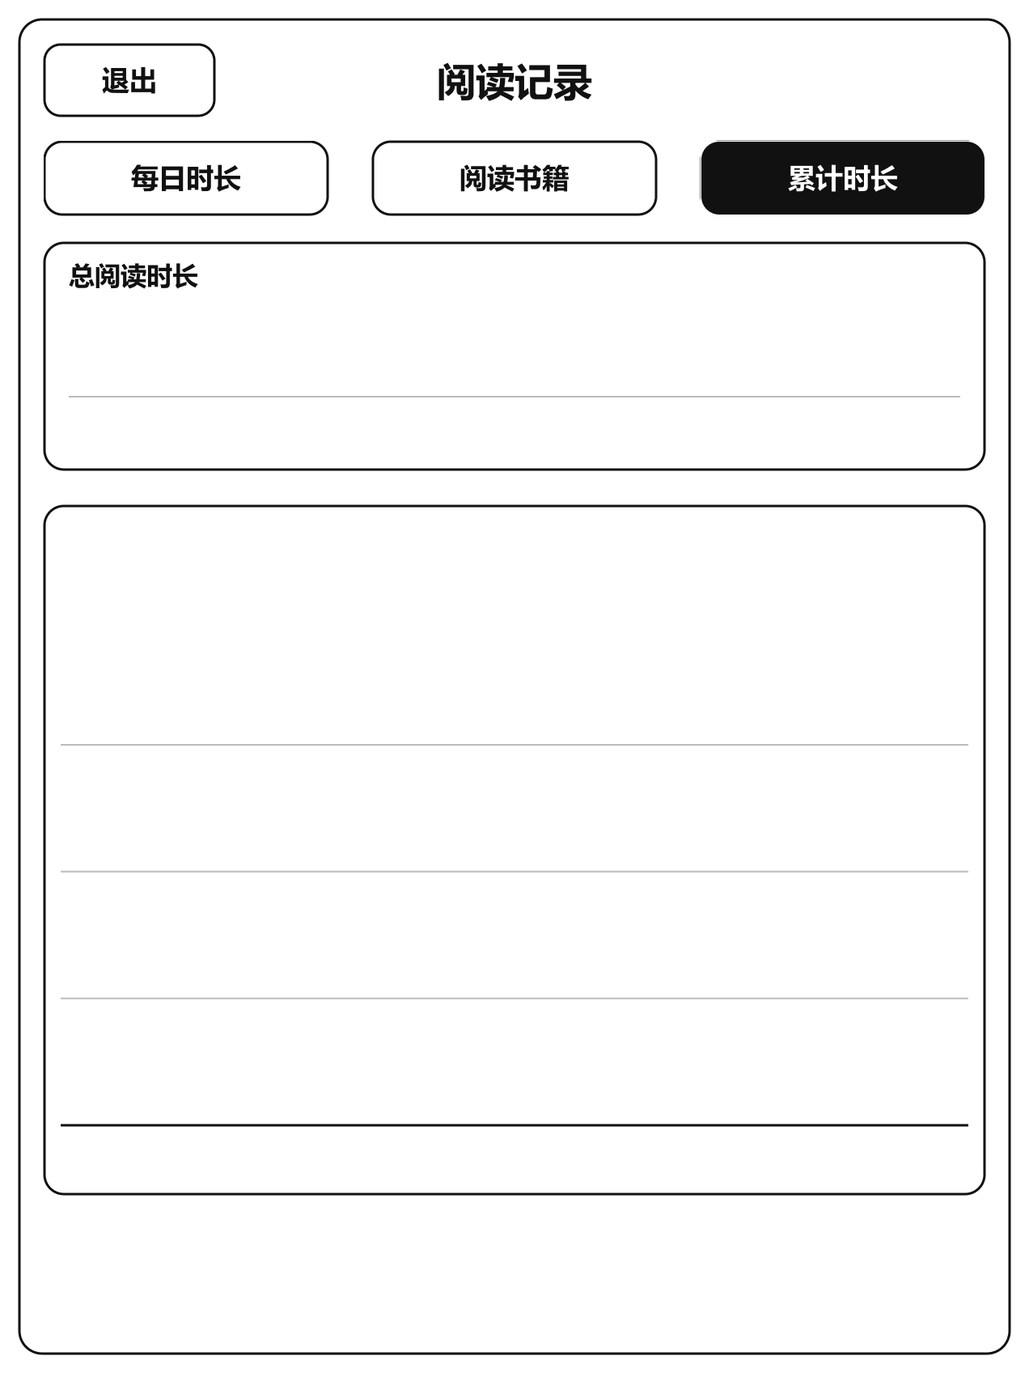
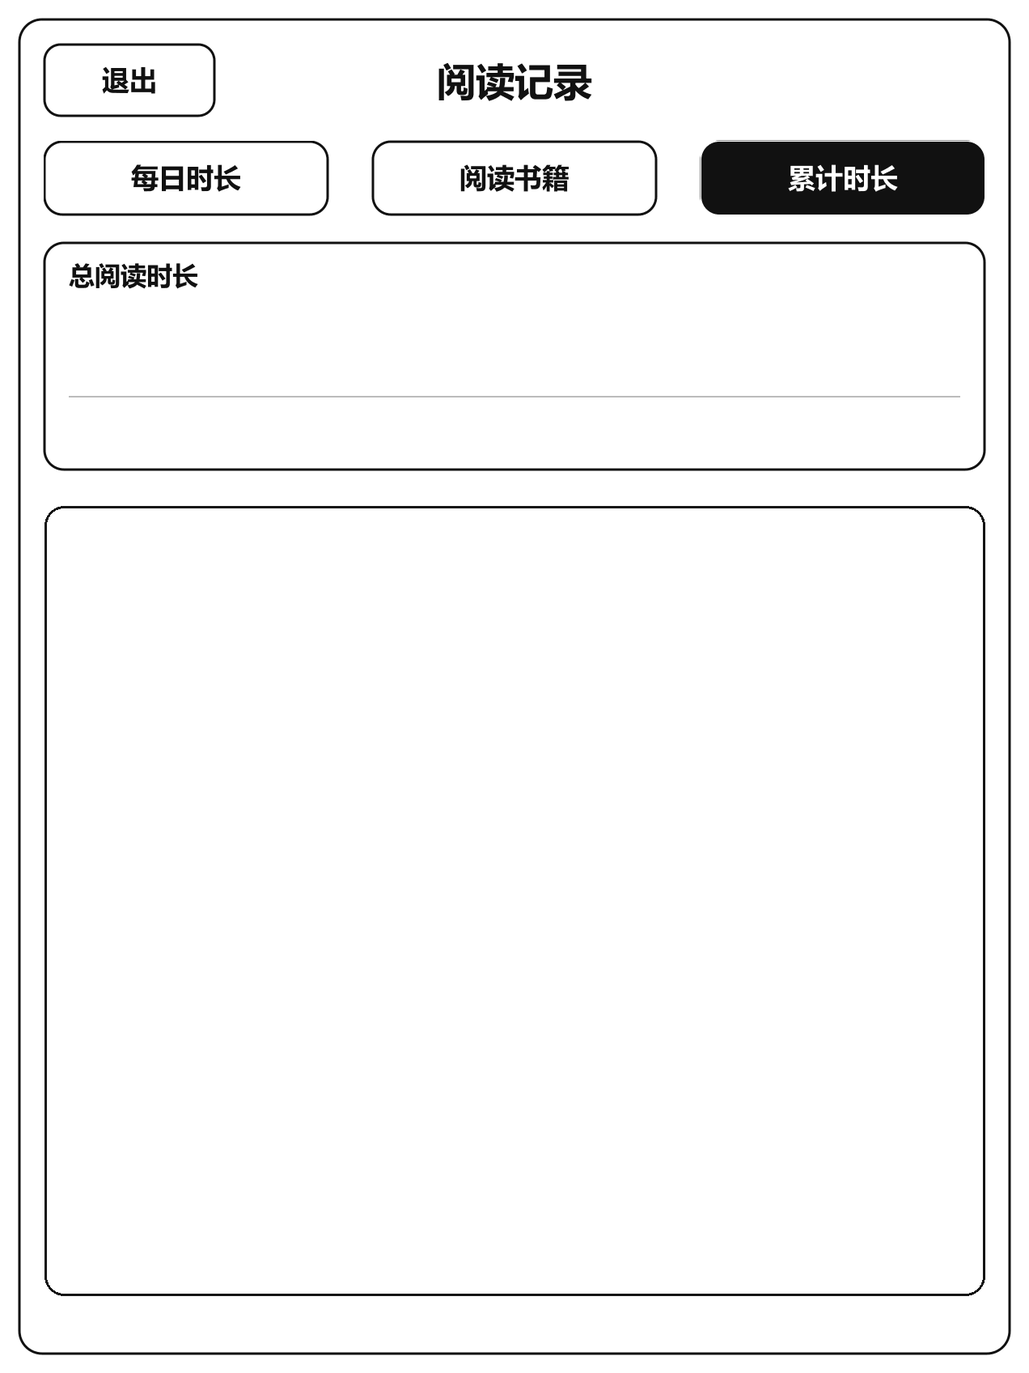
Improve cumulative-time controls and package Vera test4
Separate equal range buttons from centered period navigation, center visible glyph bounds in both axes, and move the chart with matching touch and refresh regions. Preserve verified runtime paths and settings; validate rendered pixels, upgrades, version markers and the Standard regression suite.

Changed region(s): [[0.0307, 0.375, 0.0613, 0.875]]

diff --git a/tests/validate_total_layout.py b/tests/validate_total_layout.py
@@ -1,0 +1,175 @@
+"""Real shell + Lua atlas pixels and touch geometry for the total page.
+
+Importing the existing fixture also runs the statistics/filter regression.
+These are offline renders, never a claim of Kindle framebuffer acceptance.
+"""
+import struct
+import subprocess
+import tempfile
+import io
+from PIL import Image, ImageChops, ImageOps
+from lupa.lua51 import LuaRuntime, LuaError
+from validate_stats_filters import ROOT, PKG, OUT, SESSION, render, touch_source
+
+
+def ink_box(image, white=False):
+    return (image.point(lambda p: 255 if p > 20 else 0)
+            if white else ImageOps.invert(image)).getbbox()
+
+
+def centered(image, box, white=False):
+    bounds = ink_box(image.crop(box), white)
+    assert bounds, box
+    w, h = box[2]-box[0], box[3]-box[1]
+    assert abs(bounds[0]+bounds[2]-w) <= 1, (box, bounds, 'horizontal')
+    assert abs(bounds[1]+bounds[3]-h) <= 1, (box, bounds, 'vertical')
+
+
+# Preserve every other shipped payload byte against the accepted test3 source.
+allowed = {'阅读记录-optimized.sh', 'reading-insights-render.lua',
+           'reading-insights-touch-ui.lua', 'ui-calendar/total.png'}
+for path in PKG.rglob('*'):
+    if not path.is_file() or path.relative_to(PKG).as_posix() in allowed:
+        continue
+    previous = subprocess.check_output(['git', 'show',
+        '63e34dba:native-reading-time-package/'+path.relative_to(PKG).as_posix()], cwd=ROOT)
+    actual = path.read_bytes()
+    if path.name == 'Install-Native-Reading-Time-Optimized.sh':
+        actual = actual.replace(b'9.8.1-5.20-vera-test4', b'9.8.1-5.20-vera-test3')
+    if path.suffix not in ('.png', '.pgm', '.otf'):
+        # Account for Git's Windows checkout line-ending conversion.
+        actual, previous = actual.replace(b'\r\n', b'\n'), previous.replace(b'\r\n', b'\n')
+    assert actual == previous, path
+cleanup = ROOT/'v4/cleanup.sh'
+assert cleanup.read_bytes().replace(b'9.8.1-5.20-vera-test4', b'9.8.1-5.20-vera-test3') == subprocess.check_output(['git','show','63e34dba:v4/cleanup.sh'], cwd=ROOT)
+
+old_bg = subprocess.check_output(['git', 'show',
+    '63e34dba:native-reading-time-package/ui-calendar/total.png'], cwd=ROOT)
+old_bg = Image.open(io.BytesIO(old_bg)).convert('L')
+new_bg = Image.open(PKG/'ui-calendar/total.png').convert('L')
+diff = ImageChops.difference(old_bg, new_bg).getbbox()
+assert diff and diff[0] >= 50 and diff[1] >= 600 and diff[2] <= 1223 and diff[3] <= 1621
+
+# Freeze all shell behavior outside the total rendering block and its refresh
+# extents: aggregation, pause/settings handlers, data/config and other pages.
+viewer_path = 'native-reading-time-package/阅读记录-optimized.sh'
+before = subprocess.check_output(['git', 'show', '63e34dba:'+viewer_path], cwd=ROOT).decode()
+after = (ROOT/viewer_path).read_text(encoding='utf-8')
+def outside_total(source):
+    start = source.index('spec_total_toggle_button()') if 'spec_total_toggle_button()' in source else source.index('spec_period_card()')
+    end = source.index('# Reusable on-demand interval aggregation.')
+    source = source[:start] + source[end:]
+    return '\n'.join(line for line in source.replace('1162 1220','1162 1070').splitlines()
+                     if not line.startswith('scenter()'))
+assert outside_total(before) == outside_total(after)
+touch_path = 'native-reading-time-package/reading-insights-touch-ui.lua'
+before = subprocess.check_output(['git', 'show', '63e34dba:'+touch_path], cwd=ROOT).decode()
+after = (ROOT/touch_path).read_text(encoding='utf-8')
+def outside_total_touch(source):
+    start = source.index('    if mode == "total" then')
+    end = source.index('    elseif mode == "daily" then', start)
+    return source[:start] + source[end:]
+assert outside_total_touch(before) == outside_total_touch(after)
+
+# Keep chart geometry intact while checking every selected/unselected control.
+specs = []
+for period in ('week', 'year', 'all'):
+    spec = render('test4-total-'+period, 'total',
+                  f'total_period={period}; view_year=2026; week_offset=0; render_total')
+    preview = OUT/('test4-total-'+period+'.png')
+    page = Image.open(preview).convert('L')
+    page.paste(Image.open(PKG/'ui-calendar/settings-button.png'), (1006,54))
+    page.save(preview)
+    specs.append(spec)
+    toggle = Image.open(SESSION/'total-toggle.pgm').convert('L')
+    assert toggle.size == (1122, 88)
+    for i, selected in enumerate(('week', 'year', 'all')):
+        x = i*382
+        centered(toggle, (x+12, 12, x+346, 76), period == selected)
+    nav = Image.open(SESSION/'total-period.pgm').convert('L')
+    assert nav.size == (1122, 84)
+    centered(nav, (352, 0, 770, 84))
+    if period != 'all':
+        for x in (225, 785):
+            centered(nav, (x+10, 10, x+102, 74))
+    else:
+        assert not ink_box(nav.crop((225, 0, 337, 84)))
+        assert not ink_box(nav.crop((785, 0, 897, 84)))
+    chart = Image.open(SESSION/'total-chart.pgm').convert('L')
+    assert chart.size == (1122, 690)
+    bounds = ink_box(chart)
+    assert bounds[0] > 0 and bounds[1] > 0 and bounds[2] < 1122 and bounds[3] < 690, bounds
+    # Moving down must preserve every chart pixel for an identical spec/data.
+    previous = subprocess.check_output(['git', 'show',
+        '63e34dba:native-reading-time-package/reading-insights-render.lua'], cwd=ROOT).decode()
+    old_spec = '\n'.join(line for line in spec.splitlines()
+                         if line.split('\t')[1] == 'chart')
+    ref = OUT/'test4-chart-reference.pgm'
+    old_spec = old_spec.replace(str(SESSION/'total-chart.pgm.new').replace('\\', '/'), ref.as_posix())
+    # Specifications use relative paths in the shared fixture.
+    old_spec = old_spec.replace('build/validation/stats-session/total-chart.pgm.new', ref.as_posix())
+    path = OUT/'test4-chart-reference.tsv'; path.write_text(old_spec, encoding='utf-8')
+    lua = LuaRuntime(); lua.globals().arg = lua.table_from({1:(PKG/'render-assets').as_posix(), 2:path.as_posix()})
+    lua.execute(previous)
+    assert ref.read_bytes() == (SESSION/'total-chart.pgm').read_bytes(), period
+
+# Exercise variable date widths and mixed numeral/CJK bearings with exact pixels.
+renderer = (PKG/'reading-insights-render.lua').read_text(encoding='utf-8')
+for title in ('1月1日 - 1月7日', '11月23日 - 11月29日',
+              '12月29日 - 1月4日', '2000年', '2026年', '全部历史'):
+    size = 30 if '日' in title else 39
+    path = OUT/'test4-center.tsv'; output = OUT/'test4-center.pgm'
+    path.write_text(f'canvas\tprobe\t1122\t84\t{output.as_posix()}\n'
+                    f'textcenter\tprobe\tB\t{size}\t561\t42\t0\t{title}\nwrite\tprobe\n', encoding='utf-8')
+    lua = LuaRuntime(); lua.globals().arg = lua.table_from({1:(PKG/'render-assets').as_posix(), 2:path.as_posix()})
+    lua.execute(renderer)
+    centered(Image.open(output).convert('L'), (0, 0, 1122, 84))
+
+# Test corners, centers, gutters and scaled viewports from the shipped hit map.
+cases = []
+for action, box in [('total_week',(75,650,432,737)), ('total_year',(457,650,814,737)),
+                    ('total_all',(839,650,1196,737)), ('total_prev',(300,762,411,845)),
+                    ('total_next',(860,762,971,845))]:
+    x,y,r,b = box
+    cases += [((x,y),action), ((r,b),action), (((x+r)//2,(y+b)//2),action)]
+cases += [((x,y),None) for x,y in ((74,694),(433,694),(456,694),(815,694),(838,694),
+                                  (1197,694),(636,738),(356,761),(356,846),(636,804),
+                                  (131,804),(1141,804),(299,804),(412,804),
+                                  (859,804),(972,804))]
+cases += [((1100,90),'settings_open'), ((600,450),'week_trend_open')]
+count = 0
+for period in ('week','year','all'):
+    for w,h,ox,oy in ((1272,1696,0,0),(1264,1685,0,0),(900,1200,20,40),(600,800,0,0)):
+        lua = LuaRuntime(); lua.globals().arg = lua.table_from({3:'total',13:period,6:ox,7:oy,8:w,9:h})
+        logical,physical = lua.execute(touch_source.replace('return action_for_logical', 'return action_for_logical, action_for_physical'))
+        for (x,y), action in cases:
+            expected = None if period=='all' and action in ('total_prev','total_next') else action
+            if action=='week_trend_open' and period!='week': expected=None
+            assert logical(x,y)==expected, (period,x,y,expected)
+            # Physical mapping is verified at centers; rounded edge coordinates
+            # can legitimately quantize to the adjacent logical pixel.
+            if action:
+                assert physical(ox+x*w/1272,oy+y*h/1696)==expected, (period,w,x,y)
+            count += 1
+
+# Real evdev decoding, using both event struct sizes and every control/mode.
+with tempfile.TemporaryDirectory(prefix='total-evdev-') as tmp:
+    from pathlib import Path
+    root = Path(tmp)
+    for period in ('week','year','all'):
+        for size in (16,24):
+            for (x,y),action in cases[:15]:
+                expected = '' if period=='all' and action in ('total_prev','total_next') else action
+                dev=root/'input'; dev.write_bytes(b''.join(bytes(size-8)+struct.pack('<HHi',*e)
+                    for e in ((3,53,x),(3,54,y),(0,0,0))))
+                args=[dev.as_posix(),(root/'log').as_posix(),'total',0,31,0,0,1272,1696,1,1,1576,
+                      period,'7d','direct',size,1272,1696,(root/'report').as_posix(),'unknown','unknown','unknown','unknown']
+                lua=LuaRuntime(); lua.globals().arg=lua.table_from({i+1:str(v) for i,v in enumerate(args)})
+                outputs=[]; lua.globals().capture=lambda *v:outputs.append(''.join(map(str,v)))
+                lua.execute('io.write=capture; io.stderr={write=function() end}; os.exit=function(n) error("TEST_EXIT:"..n) end')
+                try: lua.execute((PKG/'reading-insights-touch-ui.lua').read_text(encoding='utf-8'))
+                except LuaError as e: assert f'TEST_EXIT:{0 if expected else 2}' in str(e), str(e)
+                assert ''.join(outputs).strip()==expected, (period,size,x,y,outputs)
+                lua.execute('collectgarbage("collect")')
+                count += 1
+print(f'PASS: total page pixel centering, unchanged charts/core, three modes, six date titles and {count} touch checks.')

diff --git a/tests/validate_stats_filters.py b/tests/validate_stats_filters.py
@@ -250,10 +250,10 @@ record("period state sequences", "Current week → empty prior week → populate
 # render_total already redraws all four tiles. Every total-page state change must
 # also refresh the summary tile on the physical e-ink display.
 for operation in ("total_to_week", "total_to_year", "total_to_all", "week_previous", "year_previous", "week_next", "year_next"):
-    assert f"perform_draw {operation} 0 0 55 380 1162 1070" in viewer, operation
+    assert f"perform_draw {operation} 0 0 55 380 1162 1220" in viewer, operation
 assert "55 625 1162 845" not in viewer[viewer.index("      total_week)"):viewer.index("      month_prev)")]
-refresh_left, refresh_top, refresh_width, refresh_height = 55, 380, 1162, 1070
-for left, top, width, height in ((85, 380, 1102, 180), (65, 638, 230, 58), (300, 644, 676, 84), (75, 760, 1122, 690)):
+refresh_left, refresh_top, refresh_width, refresh_height = 55, 380, 1162, 1220
+for left, top, width, height in ((85, 380, 1102, 180), (75, 650, 1122, 88), (75, 762, 1122, 84), (75, 884, 1122, 690)):
     assert refresh_left <= left and refresh_top <= top
     assert refresh_left + refresh_width >= left + width
     assert refresh_top + refresh_height >= top + height
@@ -342,9 +342,9 @@ touch_source = touch_source[: touch_source.index('\nnote(string.format("interact
 touch_source = touch_source.replace('local f = assert(io.open(device, "rb"))', "local f = nil")
 touch_source = touch_source.replace('local log = io.open(log_path, "a")', "local log = nil") + "\nreturn action_for_logical"
 lua = LuaRuntime(); lua.globals().arg = lua.table_from({3: "total", 13: "week"}); total_touch = lua.execute(touch_source)
-assert [total_touch(x, 665) for x in (100, 180, 260, 350, 920)] == ["total_week", "total_year", "total_all", "total_prev", "total_next"]
+assert [total_touch(x, y) for x, y in ((254, 694), (636, 694), (1018, 694), (356, 804), (916, 804))] == ["total_week", "total_year", "total_all", "total_prev", "total_next"]
 lua = LuaRuntime(); lua.globals().arg = lua.table_from({3: "total", 13: "all"}); all_touch = lua.execute(touch_source)
-assert [all_touch(x, 665) for x in (260, 350, 920)] == ["total_all", None, None]
+assert [all_touch(x, y) for x, y in ((1018, 694), (356, 804), (916, 804))] == ["total_all", None, None]
 lua = LuaRuntime(); lua.globals().arg = lua.table_from({3: "books", 14: "7d"}); books_touch = lua.execute(touch_source)
 assert [books_touch(x, 310) for x in (100, 500, 800, 1050)] == ["books_7d", "books_month", "books_year", "books_all"]
 record("touch controls", "The hit map returns week/year/all, suppresses arrows in all-time mode, and exposes all four book-range controls.")

diff --git a/tests/validate_historical_upgrades.py b/tests/validate_historical_upgrades.py
@@ -29,7 +29,7 @@ def contracts():
         assert BOOT_NAME=='reading-records-9.8.1-install.sh'
         with tarfile.open(fileobj=io.BytesIO(z.read(TAR_NAME))) as t:
             assert key in t.extractfile('native-reading-time-package/migration-manifest.tsv').read()
-    # Freeze the device-verified test2 payload except the settings presentation,
+    # Freeze the device-verified test2 payload except the settings/total presentation,
     # its hitboxes, and narrowly scoped installer/version compatibility edits.
     row=next(row for row in CATALOG if row['id']=='9.8.1-test2')
     _,accepted=package(row)
@@ -37,7 +37,8 @@ def contracts():
     allowed={'native-reading-time-package/'+name for name in
              ('Install-Native-Reading-Time-Optimized.sh','compat/migration.sh',
               'reading-settings.sh','reading-insights-touch-ui.lua','ui-calendar/settings.png',
-              'ui-calendar/settings_custom.png','migration-manifest.tsv')}
+              'ui-calendar/settings_custom.png','migration-manifest.tsv',
+              '阅读记录-optimized.sh','reading-insights-render.lua','ui-calendar/total.png')}
     for name in names:
         if name not in allowed and name!='native-reading-time-package/resources/kual/reading-records-installer/bin/action.sh':
             assert (ROOT/name).read_bytes()==accepted[name],name
@@ -55,7 +56,9 @@ def contracts():
     before=accepted[key].decode(); after=(ROOT/key).read_text(encoding='utf-8')
     start='local function settings_action(';end='local function action_for_logical('
     assert before[:before.index(start)]==after[:after.index(start)]
-    assert before[before.index(end):]==after[after.index(end):]
+    # Only the optimized total hitboxes changed after test3.
+    tail='    elseif mode == "daily" then'
+    assert before[before.index(tail):]==after[after.index(tail):]
     with zipfile.ZipFile(SIMPLE_ARCHIVE) as z:
         with tarfile.open(fileobj=io.BytesIO(z.read(TAR_NAME))) as t:
             inventory=t.extractfile(prefix+'migration-manifest.tsv').read()

diff --git a/scripts/build_v4.py b/scripts/build_v4.py
@@ -14,10 +14,10 @@ from package_release import FILES as STANDARD_FILES
 
 
 ROOT = Path(__file__).resolve().parents[1]
-PRODUCT_VERSION = "9.8.1-5.20-vera-test3"
-# Keep the verified daemon/helper paths; test3 replaces only the settings UI.
+PRODUCT_VERSION = "9.8.1-5.20-vera-test4"
+# Product/UI revision only: keep the verified daemon/helper runtime paths.
 RUNTIME_VERSION = "9.8.1-5.20-vera-test1"
-DIST = ROOT / "build/standard-9.8.1-test3"
+DIST = ROOT / "build/standard-9.8.1-test4"
 SIMPLE_ARCHIVE = DIST / f"{PRODUCT_VERSION}.zip"
 BOOT_NAME = "reading-records-9.8.1-install.sh"
 TAR_NAME = "阅读记录安装数据.tar"
@@ -81,7 +81,7 @@ exit 127
     result["v4/cleanup.sh"] = (ROOT / "v4/cleanup.sh").read_bytes()
     result["native-reading-time-package/migration-manifest.tsv"] = ownership_manifest(result, posix_cksum, make_tar)
     build_id = sha(b"".join(name.encode() + b"\0" + sha(raw).encode() for name, raw in sorted(result.items())))[:20]
-    result["BUILD-INFO"] = f"product_version={PRODUCT_VERSION}\nvariant=standard\nbuild_id={build_id}\nsource_baseline=b46407c3b73cd1d5445a3db2159662ca9ffd4c75\n".encode()
+    result["BUILD-INFO"] = f"product_version={PRODUCT_VERSION}\nvariant=standard\nbuild_id={build_id}\nsource_baseline=63e34dba9480124849c18c070f64e311789f887a\n".encode()
     entries = [{"path": name, "size": len(raw), "sha256": sha(raw)} for name, raw in sorted(result.items())]
     manifest_name = "PACKAGE-MANIFEST.json" if variant == "standard" else "PACKAGE-MANIFEST-KS.json"
     result[manifest_name] = (json.dumps({"format": 4, "installer_format": "two-file-1", "product_version": PRODUCT_VERSION, "variant": variant, "files": entries}, ensure_ascii=False, indent=2) + "\n").encode()

diff --git a/scripts/checks_polish.py b/scripts/checks_polish.py
@@ -21,9 +21,9 @@ for y in [2026,2027,2030]:
     period=Image.open(io.BytesIO((session/'total-period.pgm').read_bytes()))
     # Restrict the ink measurement to the title's center lane; week/year also
     # contain navigation controls at the ends of this same tile.
-    box=ImageOps.invert(period.crop((112,0,564,84))).getbbox()
+    box=ImageOps.invert(period.crop((352,0,770,84))).getbbox()
     period.close()
-    assert abs(300+112+(box[0]+box[2])/2-636)<=0.5,(y,box)
+    assert abs(75+352+(box[0]+box[2])/2-636)<=0.5,(y,box)
 record('true horizontal centering','Rasterized ink bounds for Sep/Oct/Jan/Dec and three year titles center at logical x=636 within half a pixel.')
 
 # Card geometry regressions from Kindle testing. Check the final composite and
@@ -80,7 +80,9 @@ for screen_w,screen_h in ((600,800),(900,1200),(1072,1448),(1236,1648),(1264,168
 total_bg=Image.open(PKG/'ui-calendar/total.png').convert('L')
 assert total_bg.crop((296,640,415,731)).getextrema()==(255,255)
 assert total_bg.crop((860,640,979,731)).getextrema()==(255,255)
-for x in range(73,1199): assert total_bg.getpixel((x,625))<100
+expected_total=Image.new('L',total_bg.size,255)
+ImageDraw.Draw(expected_total).rounded_rectangle((55,625,1217,1600),radius=24,outline=20,width=3)
+assert ImageChops.difference(total_bg.crop((50,600,1223,1621)),expected_total.crop((50,600,1223,1621))).getbbox() is None
 all_spec=render('total-all-panel','total','total_period=all; render_total')
 week_spec=render('total-week-panel','total','total_period=week; week_offset=0; render_total')
 assert not any(l.startswith('round\tperiod\t') for l in all_spec.splitlines())

diff --git a/tests/validate_idle_guard.py b/tests/validate_idle_guard.py
@@ -6,8 +6,14 @@ ROOT=Path(__file__).resolve().parents[1]; PKG=ROOT/'native-reading-time-package'
 SH=shutil.which('sh') or 'C:/Program Files/Git/usr/bin/sh.exe'
 with tempfile.TemporaryDirectory(prefix='idle-guard-') as tmp:
     root=Path(tmp); mock=root/'bin'; mock.mkdir(); sysfs=root/'sys'; sysfs.mkdir()
+    blocked=root/'blocked-reader'
+    subprocess.run([SH,'-c','/usr/bin/mkfifo "$1"','test',blocked.as_posix()],check=True)
     fake=mock/'lua'
-    fake.write_text('#!/bin/sh\ncase "$1" in *probe.lua) printf "/dev/fixture\\n16\\n";; *) exec /bin/sleep 30;; esac\n',encoding='utf-8',newline='\n')
+    # Keep one blocked reader PID/start time. MSYS changes /proc start time on
+    # exec (unlike Linux), so exec sleep can invalidate the guard's identity
+    # snapshot and create a host-only orphan. A builtin FIFO read models the
+    # same blocked input lifetime without that extra exec or a grandchild.
+    fake.write_text('#!/bin/sh\ncase "$1" in *probe.lua) printf "/dev/fixture\\n16\\n";; *) exec 7<>"'+blocked.as_posix()+'"; IFS= read -r fixture_control <&7;; esac\n',encoding='utf-8',newline='\n')
     subprocess.run([SH,'-c','/usr/bin/chmod 755 "$1"','test',fake.as_posix()],check=True)
     env={**os.environ,'PATH':mock.as_posix()+':/usr/bin:/bin','READING_INPUT_SYSFS':sysfs.as_posix()}
     for signal in ('TERM','KILL','GUARD_KILL'):

diff --git a/tests/validate_standard_touch_compat.py b/tests/validate_standard_touch_compat.py
@@ -230,8 +230,8 @@ def main():
                      ('books',(180,310),'books_7d'),('books',(500,310),'books_month'),('books',(750,310),'books_year'),
                      ('books',(1100,310),'books_all'),('books',(600,410),'book_row_1'),('books',(600,810),'book_row_2'),
                      ('books',(600,1150),'book_row_3'),('books',(220,1500),'page_prev'),('books',(1050,1500),'page_next'),
-                     ('total',(100,665),'total_week'),('total',(180,665),'total_year'),('total',(260,665),'total_all'),
-                     ('total',(360,680),'total_prev'),('total',(920,680),'total_next'),('total',(600,450),'week_trend_open'),
+                     ('total',(254,694),'total_week'),('total',(636,694),'total_year'),('total',(1018,694),'total_all'),
+                     ('total',(356,804),'total_prev'),('total',(916,804),'total_next'),('total',(600,450),'week_trend_open'),
                      ('total',(180,1000),'week_day_0'),('day_detail',(120,85),'day_detail_back'),
                      ('day_detail',(450,1595),'day_detail_prev'),('day_detail',(800,1595),'day_detail_next'),
                      ('month_detail',(120,85),'month_detail_back'),('week_trend',(120,85),'week_trend_back'),

diff --git a/tests/validate_install.py b/tests/validate_install.py
@@ -1,9 +1,11 @@
 """Exercise the installer in a workspace sandbox with all device operations mocked."""
 from service_fixture import service_fixture
 from pathlib import Path
-import atexit, hashlib, json, os, shutil, subprocess, tempfile
+import atexit, hashlib, json, os, shutil, subprocess, sys, tempfile
 
 ROOT=Path(__file__).resolve().parents[1]
+sys.path.insert(0,str(ROOT/'scripts'))
+from build_v4 import PRODUCT_VERSION
 PKG=ROOT/'native-reading-time-package'
 BASELINE=ROOT/'tests/baselines/v9.6.10'
 OUT=ROOT/'build/validation'; OUT.mkdir(parents=True,exist_ok=True)
@@ -139,7 +141,7 @@ assert digest(conf)==digest(PKG/'native-reading-time.conf')
 assert digest(data)==before[str(data)]
 assert digest(old_cover)==before[str(old_cover)] and digest(old_cover_map)==before[str(old_cover_map)]
 assert digest(state/'reading-time.tsv.bak')==before[str(data)]
-assert (state/'VERSION').read_text(encoding='utf-8').strip()=='9.8.1-5.20-vera-test2'
+assert (state/'VERSION').read_text(encoding='utf-8').strip()==PRODUCT_VERSION
 assert digest(old_release/'preserved-marker')==before[str(old_release/'preserved-marker')]
 icon=assets/'launcher-icon.png'
 assert digest(icon)==digest(PKG/'launcher-icon.png')

diff --git a/scripts/build_total.py b/scripts/build_total.py
@@ -1,0 +1,21 @@
+"""Rebuild only the cumulative-time chart card; no device-side dependencies."""
+from pathlib import Path
+from PIL import Image, ImageDraw
+from build_ui import draw_standard_card
+
+ROOT = Path(__file__).resolve().parents[1]
+
+
+def build():
+    path = ROOT / 'native-reading-time-package/ui-calendar/total.png'
+    page = Image.open(path).convert('L')
+    draw = ImageDraw.Draw(page)
+    # Erase the previous card and its static grid. The runtime owns all ticks.
+    # Keep the approved summary, tabs, header and outer frame byte-identical.
+    draw.rectangle((50, 600, 1222, 1620), fill=255)
+    draw_standard_card(draw, (55, 625, 1217, 1600))
+    page.save(path)
+
+
+if __name__ == '__main__':
+    build()

diff --git a/scripts/check_v4_runtime.py b/scripts/check_v4_runtime.py
@@ -32,6 +32,8 @@ ALLOWED_CHANGED = {
     "native-reading-time-package/阅读记录.sh",
     "native-reading-time-package/阅读记录-optimized.sh",
     "native-reading-time-package/reading-insights-touch-ui.lua",
+    "native-reading-time-package/reading-insights-render.lua",
+    "native-reading-time-package/ui-calendar/total.png",
     "ks-package/native-reading-time-package/阅读记录-ks.sh",
     "native-reading-time-package/launch.sh",
     "ks-package/native-reading-time-package/launch-ks.sh",

diff --git a/tests/validate_ui.py b/tests/validate_ui.py
@@ -63,6 +63,7 @@ assert stable_payload_changes==[
     'native-reading-time-package/reading-idle.sh',
     'native-reading-time-package/reading-insights-cache.awk',
     'native-reading-time-package/reading-insights-cover.lua',
+    'native-reading-time-package/reading-insights-render.lua',
     'native-reading-time-package/reading-insights-touch-preflight.sh',
     'native-reading-time-package/reading-insights-touch-probe.lua',
     'native-reading-time-package/reading-insights-touch-ui.lua',

diff --git a/scripts/validate_all.py b/scripts/validate_all.py
@@ -16,7 +16,7 @@ CHECKS = [
     ROOT / "tests/validate_idle_guard.py",
     ROOT / "tests/validate_ui.py",
     ROOT / "tests/validate_standard_touch_compat.py",
-    ROOT / "tests/validate_stats_filters.py",
+    ROOT / "tests/validate_total_layout.py",
     ROOT / "tests/validate_day_detail.py",
     ROOT / "tests/validate_period_details.py",
     ROOT / "tests/validate_book_detail.py",
